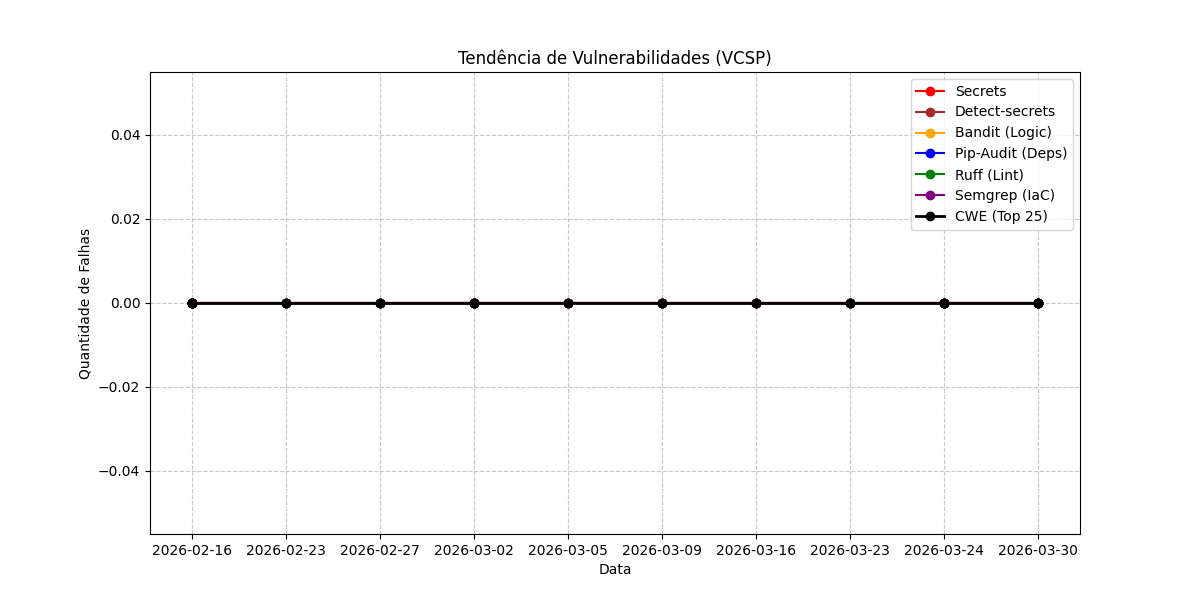
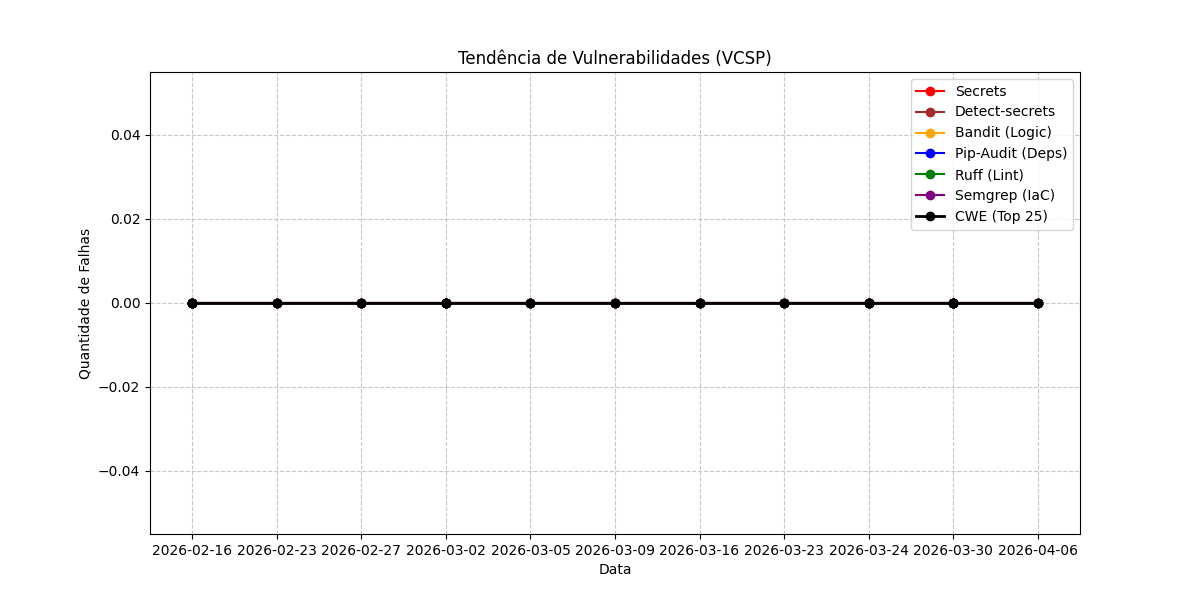
docs: update security trend chart

diff --git a/README.md b/README.md
@@ -206,7 +206,7 @@ O VCSP realiza as seguintes verificações automáticas em cada execução:
 O gráfico abaixo mostra a tendência das vulnerabilidades encontradas por cada ferramenta ao longo do tempo:
 
 
-![Bug Trend](.vibe/assets/bug_trend.png?v=20260330120340)
+![Bug Trend](.vibe/assets/bug_trend.png?v=20260406090857)
 
 ---
 
